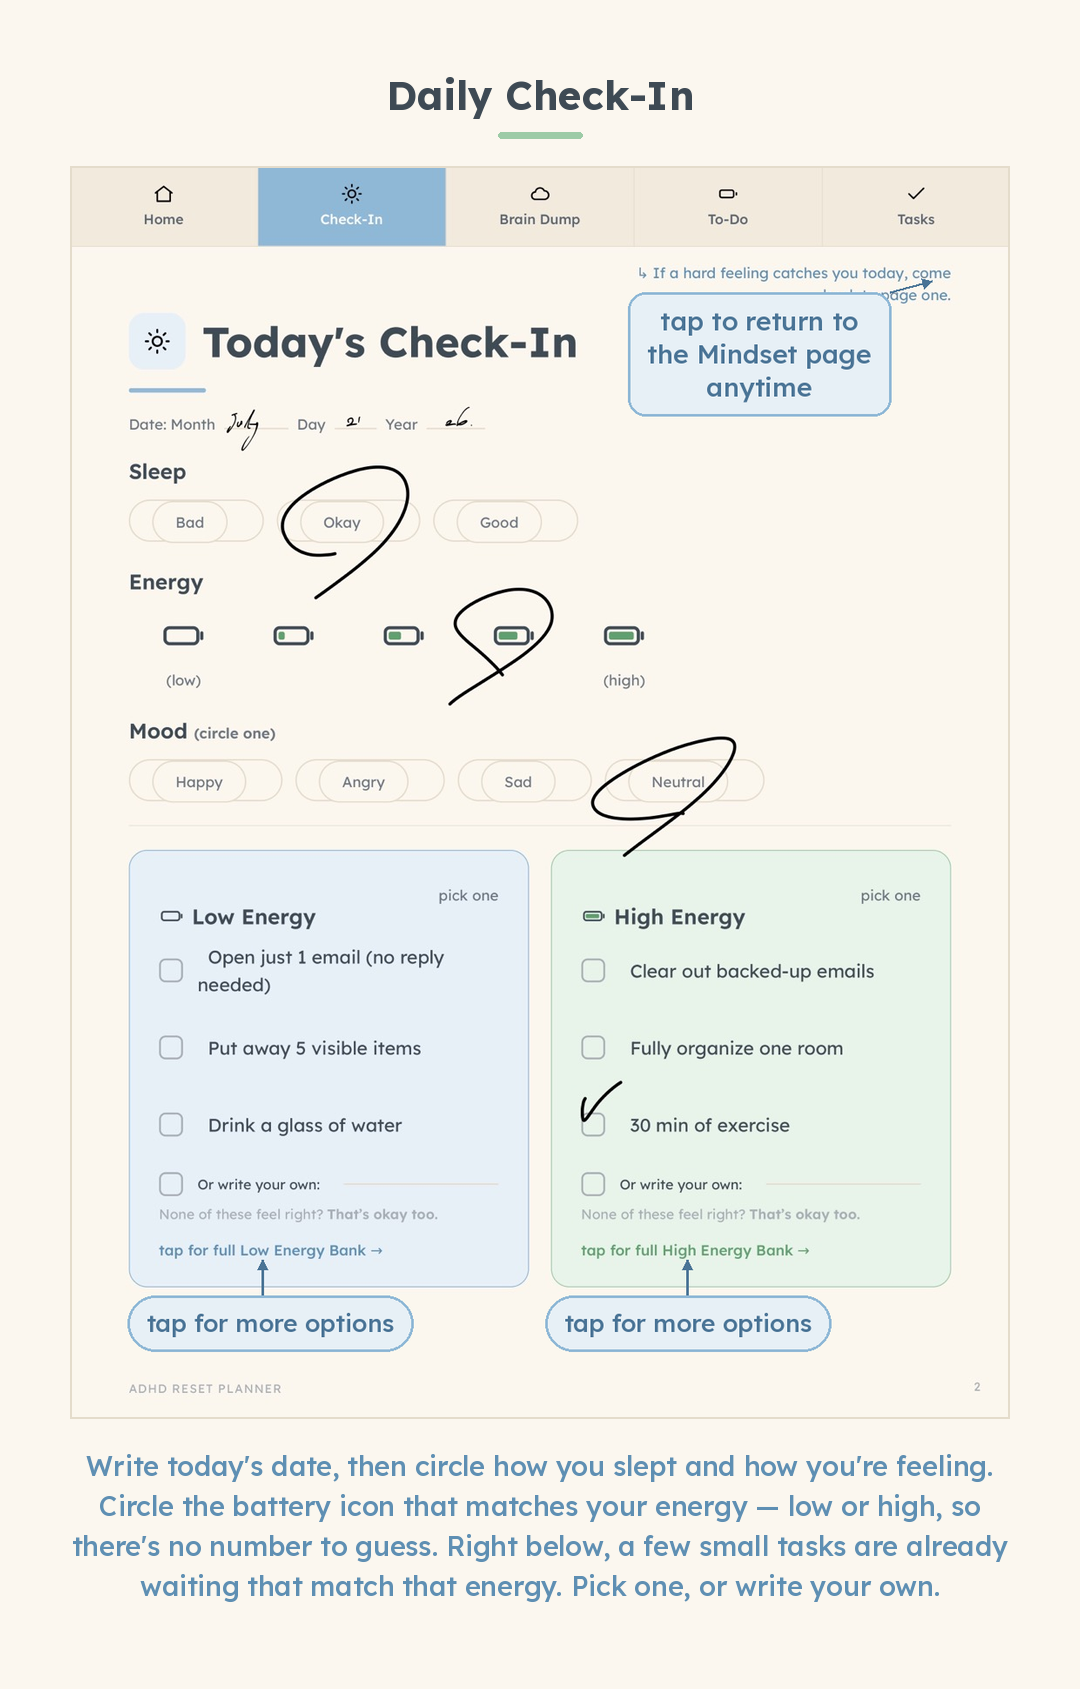
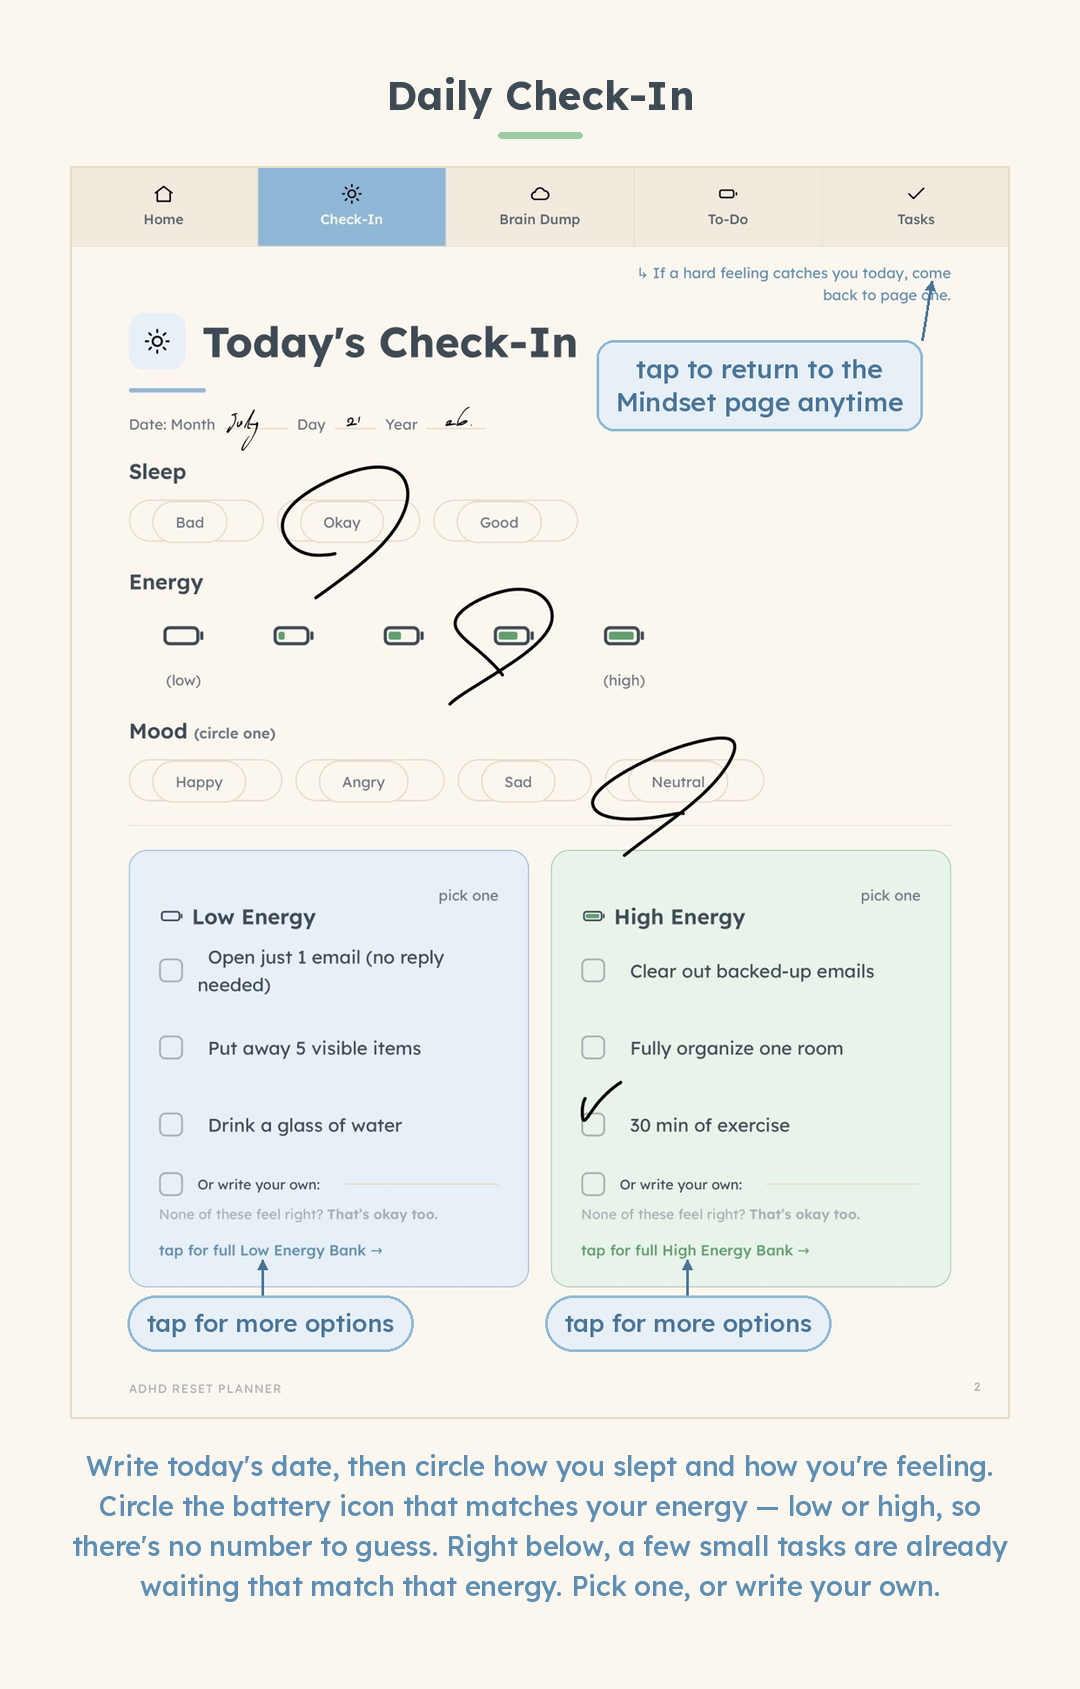
Round 11 fix: move Check-In & Brain Dump callout pills off their links
- Check-In: dropped the 'return to Mindset' pill lower (2-line) so it no longer
  overlaps the top-right back-note link text
- Brain Dump: made the 'breaking it into steps' pill one line and nudged it down so
  it clears the 'Take it to Task Breakdown' link

Claude-Session: https://claude.ai/code/session_01KcnXVGn1PA3dMxNF6GEYD2

Changed region(s): [[0.55, 0.1539, 0.8556, 0.2463], [0.8556, 0.1539, 0.8861, 0.1847]]

diff --git a/adhd-planner/src/annotate_gallery.py b/adhd-planner/src/annotate_gallery.py
@@ -105,8 +105,8 @@ def build(kind):
 
     if kind == "checkin":
         r = link_rect(page, "come back to page one")
-        callout(img, ((r[0] + r[2]) / 2, r[3]), (792, 216),
-                "tap to return to the Mindset page anytime", maxw=258)
+        callout(img, ((r[0] + r[2]) / 2, r[3]), (792, 252),
+                "tap to return to the Mindset page anytime", maxw=344)
         r = link_rect(page, "tap for full Low Energy Bank")
         callout(img, ((r[0] + r[2]) / 2, r[3] + 2), (230, 1330),
                 "tap for more options", maxw=340, fs=28)
@@ -121,8 +121,8 @@ def build(kind):
 
     elif kind == "braindump":
         r = link_rect(page, "Take it to Task Breakdown")
-        callout(img, ((r[0] + r[2]) / 2, r[3] + 2), (392, 1360),
-                "tap to start breaking it into steps", maxw=380, fs=28)
+        callout(img, ((r[0] + r[2]) / 2, r[3] + 2), (392, 1356),
+                "tap to start breaking it into steps", maxw=560, fs=28)
         title = "Brain Dump"
         cap = ("Whatever's stuck in your head — write it down, no need to sort it yet. "
                "If something needs sorting, drop it into Urgent / Important / Later. "
